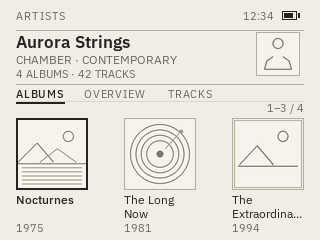
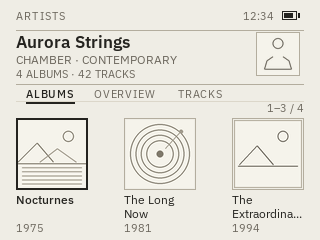
UI: make the artist tab row the focus stop the paper describes
`docs/ui.md` 6.5 says the wheel enters the tab row from the first body item and
that LEFT/RIGHT move the body selection. The firmware did the opposite: LEFT and
RIGHT switched tabs from anywhere and the wheel never reached the row, so the
shipped page and the specification disagreed and the body selection could only
be moved with the wheel.

Implement the documented grammar:

- A wheel step up enters the tab row when nothing selectable sits above the
  focused body item: always on OVERVIEW (which has no body selection), from the
  first album, and from the first playable track. Nothing that used to work is
  lost, because those steps were previously clamped no-ops.
- While the row is focused: wheel up steps back through the tabs, wheel down
  hands the wheel back to the body (the inverse of the way in), LEFT/RIGHT
  change the tab, both clamped at the ends. SELECT returns focus to the body;
  the tab is always live, so the row never holds a pending choice. MENU keeps
  its single meaning and leaves the page, as the footer says.
- Body focus: LEFT/RIGHT move the album or track selection by one, which is
  what the paper already promised.

Layout: tab labels move from x=16/84/168 to x=26/94/178 so the focused-row bar
at x=16, y=86, 2x16 has the same 8 px gutter as a focused list row and no label
shifts when the row takes or loses focus.

Evidence: `make -C tests/ui test` PASS with new pixel probes (bar present only
[…]

Changed region(s): [[0.0312, 0.35, 0.5, 0.4375], [0.5312, 0.35, 0.7188, 0.4083]]

diff --git a/firmware/ui/music.c b/firmware/ui/music.c
@@ -1804,7 +1804,8 @@ static void draw_artists_list_screen(struct helikon_screen *target,
 
 static void draw_artist_page(struct helikon_screen *target, uint32_t artist_id,
                              uint32_t tab, uint32_t album_selected,
-                             uint32_t track_selected, uint32_t flags)
+                             uint32_t track_selected, uint32_t flags,
+                             uint32_t tab_focused)
 {
     helikon_screen_fill_rect(target, 0u, 0u, target->width, target->height,
                              MUSIC_PAPER);
@@ -1866,7 +1867,10 @@ static void draw_artist_page(struct helikon_screen *target, uint32_t artist_id,
 
     draw_rule(target, 84u, MUSIC_RULE);
     static const char *const tab_labels[3] = { "ALBUMS", "OVERVIEW", "TRACKS" };
-    static const uint32_t tab_x[3] = { 16u, 84u, 168u };
+    /* The labels start at 26 so the focus marker has the same 2 px bar and
+     * 8 px gutter as a focused list row, without a layout shift when the row
+     * takes or loses focus. */
+    static const uint32_t tab_x[3] = { 26u, 94u, 178u };
     if (tab > 2u)
         tab = 0u;
     for (uint32_t index = 0u; index < 3u; ++index) {
@@ -1881,6 +1885,8 @@ static void draw_artist_page(struct helikon_screen *target, uint32_t artist_id,
                                             tab_labels[tab]);
     helikon_screen_fill_rect(target, tab_x[tab], 102u, underline, 2u,
                              MUSIC_INK);
+    if (tab_focused != 0u)
+        helikon_screen_fill_rect(target, MUSIC_X, 86u, 2u, 16u, MUSIC_INK);
     if (tab == 0u) {
         char position[32];
         if (album_count == 0u) {
@@ -3088,6 +3094,20 @@ static int run_now_playing(uint32_t track_id, uint32_t album_id)
 }
 #endif
 
+/* True when the focused tab has a selectable body item above the current one,
+ * so a wheel step up moves inside the body instead of entering the tab row. */
+static int artist_body_has_previous(const struct hdb_artist *artist,
+                                    uint32_t artist_id, uint32_t tab,
+                                    uint32_t album_selected,
+                                    int32_t track_selected)
+{
+    if (tab == 0u)
+        return artist->album_count != 0u && album_selected > 0u;
+    if (tab == 2u)
+        return artist_next_playable(artist_id, track_selected, -1) >= 0;
+    return 0; /* OVERVIEW has no body items; the wheel always reaches the row. */
+}
+
 static void run_album(uint32_t album_id);
 
 static void run_track_page(uint32_t track_id)
@@ -3181,19 +3201,20 @@ static void run_artist(uint32_t artist_id)
 {
     struct hdb_artist artist;
     if (hdb_artist(&db, artist_id, &artist) != HELIKON_OK) {
-        draw_artist_page(screen, artist_id, 0u, 0u, 0u, 0u);
+        draw_artist_page(screen, artist_id, 0u, 0u, 0u, 0u, 0u);
         (void)helikon_screen_present_all(screen);
         wait_for_back();
         return;
     }
 
     uint32_t tab = 0u;
+    uint32_t tab_focused = 0u;
     uint32_t album_selected = 0u;
     int32_t track_selected = artist_first_playable(artist_id);
     if (track_selected < 0)
         track_selected = 0;
     draw_artist_page(screen, artist_id, tab, album_selected,
-                     (uint32_t)track_selected, 0u);
+                     (uint32_t)track_selected, 0u, tab_focused);
     struct nav_state nav;
     nav_reset(&nav);
     uint64_t idle = helikon_clock_now_us(clock);
@@ -3209,23 +3230,55 @@ static void run_artist(uint32_t artist_id)
             if (hold || (pressed & HELIKON_BUTTON_MENU) != 0u)
                 return;
 
+            /* LEFT/RIGHT switch tabs while the row is focused and move the
+             * body selection otherwise. */
             if ((pressed & HELIKON_BUTTON_LEFT) != 0u) {
-                tab = tab == 0u ? 2u : tab - 1u;
+                if (tab_focused != 0u) {
+                    tab = tab == 0u ? 0u : tab - 1u;
+                } else if (tab == 0u && artist.album_count != 0u) {
+                    if (album_selected > 0u)
+                        --album_selected;
+                } else if (tab == 2u) {
+                    int32_t next =
+                        artist_next_playable(artist_id, track_selected, -1);
+                    if (next >= 0)
+                        track_selected = next;
+                }
                 nav.wheel_accumulator = 0;
                 idle = now;
                 draw_artist_page(screen, artist_id, tab, album_selected,
-                                 (uint32_t)track_selected, 0u);
+                                 (uint32_t)track_selected, 0u, tab_focused);
                 continue;
             }
             if ((pressed & HELIKON_BUTTON_RIGHT) != 0u) {
-                tab = tab == 2u ? 0u : tab + 1u;
+                if (tab_focused != 0u) {
+                    tab = tab == 2u ? 2u : tab + 1u;
+                } else if (tab == 0u && artist.album_count != 0u) {
+                    if (album_selected + 1u < artist.album_count)
+                        ++album_selected;
+                } else if (tab == 2u) {
+                    int32_t next =
+                        artist_next_playable(artist_id, track_selected, 1);
+                    if (next >= 0)
+                        track_selected = next;
+                }
                 nav.wheel_accumulator = 0;
                 idle = now;
                 draw_artist_page(screen, artist_id, tab, album_selected,
-                                 (uint32_t)track_selected, 0u);
+                                 (uint32_t)track_selected, 0u, tab_focused);
                 continue;
             }
             if ((pressed & HELIKON_BUTTON_SELECT) != 0u) {
+                if (tab_focused != 0u) {
+                    /* The tab is already live; SELECT only hands the wheel back
+                     * to the body, exactly like a list row. */
+                    tab_focused = 0u;
+                    idle = now;
+                    draw_artist_page(screen, artist_id, tab, album_selected,
+                                     (uint32_t)track_selected, 0u,
+                                     tab_focused);
+                    continue;
+                }
                 if (tab == 0u && artist.album_count != 0u) {
                     uint32_t album_id = 0u;
                     if (artist_album_at(artist_id, album_selected, &album_id) ==
@@ -3234,7 +3287,8 @@ static void run_artist(uint32_t artist_id)
                         nav_reset(&nav);
                         draw_artist_page(screen, artist_id, tab,
                                          album_selected,
-                                         (uint32_t)track_selected, 0u);
+                                         (uint32_t)track_selected, 0u,
+                                         tab_focused);
                         idle = helikon_clock_now_us(clock);
                     }
                 } else if (tab == 2u) {
@@ -3246,7 +3300,8 @@ static void run_artist(uint32_t artist_id)
                         nav_reset(&nav);
                         draw_artist_page(screen, artist_id, tab,
                                          album_selected,
-                                         (uint32_t)track_selected, 0u);
+                                         (uint32_t)track_selected, 0u,
+                                         tab_focused);
                         idle = helikon_clock_now_us(clock);
                     }
                 }
@@ -3257,7 +3312,20 @@ static void run_artist(uint32_t artist_id)
                 pressed & ~(HELIKON_BUTTON_LEFT | HELIKON_BUTTON_RIGHT), wheel,
                 now);
             if (delta != 0) {
-                if (tab == 0u && artist.album_count != 0u) {
+                if (tab_focused != 0u) {
+                    /* Up steps back through the tabs; down hands the wheel
+                     * back to the body, the inverse of the way in. */
+                    if (delta < 0)
+                        tab = tab == 0u ? 0u : tab - 1u;
+                    else
+                        tab_focused = 0u;
+                } else if (delta < 0 && !artist_body_has_previous(
+                               &artist, artist_id, tab, album_selected,
+                               track_selected)) {
+                    /* Nothing above the first body item: the wheel enters the
+                     * tab row instead of stopping dead. */
+                    tab_focused = 1u;
+                } else if (tab == 0u && artist.album_count != 0u) {
                     if (delta < 0 && album_selected > 0u)
                         --album_selected;
                     else if (delta > 0 &&
@@ -3271,7 +3339,7 @@ static void run_artist(uint32_t artist_id)
                 }
                 idle = now;
                 draw_artist_page(screen, artist_id, tab, album_selected,
-                                 (uint32_t)track_selected, 0u);
+                                 (uint32_t)track_selected, 0u, tab_focused);
             }
         }
         if (helikon_clock_expired(clock, idle, MUSIC_IDLE_MS))

diff --git a/tools/render-ui-mockup.py b/tools/render-ui-mockup.py
@@ -365,6 +365,7 @@ MUSIC_FLOW_SCREENS = (
     "artist-overview",
     "artist-overview-empty",
     "artist-tracks",
+    "artist-tab-focus",
     "album-view",
     "album-long",
     "album-empty",
@@ -1181,6 +1182,7 @@ def render_music_flow():
     for tab in ("albums", "overview", "tracks"):
         paths.extend(draw_artist_view(tab))
     paths.extend(draw_artist_view("overview", empty_overview=True))
+    paths.extend(draw_artist_view("albums", tab_focused=True))
     for mode in ("normal", "long", "empty", "corrupt"):
         paths.extend(draw_album_view(mode=mode))
     write_clip_report(MUSIC_FLOW, "Music flow", paths)
@@ -1444,7 +1446,7 @@ def draw_artists_list(long_names=False):
                      MUSIC_FLOW / f"helikon-os-{name}-320x240@2x.png")
 
 
-def draw_artist_view(tab, empty_overview=False):
+def draw_artist_view(tab, empty_overview=False, tab_focused=False):
     image = Image.new("RGB", (WIDTH, HEIGHT), HOME_PAPER)
     draw = ImageDraw.Draw(image)
     music_top_bar(draw, "ARTISTS")
@@ -1469,7 +1471,7 @@ def draw_artist_view(tab, empty_overview=False):
     require_rect(16, 84, 288, 1, "artist identity rule")
     draw.line((16, 84, 303, 84), fill=HOME_RULE)
 
-    labels = (("ALBUMS", 16), ("OVERVIEW", 84), ("TRACKS", 168))
+    labels = (("ALBUMS", 26), ("OVERVIEW", 94), ("TRACKS", 178))
     selected_index = {"albums": 0, "overview": 1, "tracks": 2}[tab]
     for index, (label, x) in enumerate(labels):
         selected = index == selected_index
@@ -1485,6 +1487,9 @@ def draw_artist_view(tab, empty_overview=False):
                               ui_font(11, 500), 0.8)
     require_rect(tab_x, 102, round(tab_width), 2, "artist tab underline")
     draw.rectangle((tab_x, 102, tab_x + round(tab_width), 103), fill=HOME_INK)
+    if tab_focused:
+        require_rect(16, 86, 2, 16, "artist tab focus bar")
+        draw.rectangle((16, 86, 17, 101), fill=HOME_INK)
 
     if tab == "albums":
         put_right_fitted(draw, "1–3 / 4" if not empty_overview else "0 / 0",
@@ -1553,12 +1558,15 @@ def draw_artist_view(tab, empty_overview=False):
                      (258, y, 46, 16), f"artist track {index + 1} duration",
                      HOME_MUTED, anchor="rs")
 
-    name = {
-        "albums": "artist-albums",
-        "overview": "artist-overview-empty" if empty_overview
-        else "artist-overview",
-        "tracks": "artist-tracks",
-    }[tab]
+    if tab_focused:
+        name = "artist-tab-focus"
+    else:
+        name = {
+            "albums": "artist-albums",
+            "overview": "artist-overview-empty" if empty_overview
+            else "artist-overview",
+            "tracks": "artist-tracks",
+        }[tab]
     return save_pair(image, MUSIC_FLOW / f"helikon-os-{name}-320x240.png",
                      MUSIC_FLOW / f"helikon-os-{name}-320x240@2x.png")
 

diff --git a/tests/ui/test_music.c b/tests/ui/test_music.c
@@ -265,24 +265,38 @@ int main(int argc, char **argv)
     if (check(any_not_paper(240u, 228u, 64u, 12u), "artists empty range"))
         return 1;
 
-    draw_artist_page(&target, 0u, 0u, 0u, 0u, 0u);
+    draw_artist_page(&target, 0u, 0u, 0u, 0u, 0u, 0u);
     snprintf(path, sizeof(path), "%s-artist-albums.ppm", prefix);
     (void)write_ppm(path);
-    if (check(pixel(16u, 102u) == MUSIC_INK, "artist albums underline"))
+    if (check(pixel(26u, 102u) == MUSIC_INK, "artist albums underline"))
         return 1;
-    if (check(pixel(84u, 102u) != MUSIC_INK,
+    if (check(pixel(94u, 102u) != MUSIC_INK,
               "artist overview underline is not active"))
         return 1;
     if (check(pixel(16u, 118u) == MUSIC_INK, "artist album cell frame"))
         return 1;
+    if (check(pixel(16u, 92u) == MUSIC_PAPER,
+              "artist tab row has no focus bar at rest"))
+        return 1;
 
-    draw_artist_page(&target, 0u, 0u, 0u, 0u, MUSIC_PREVIEW_EMPTY);
+    draw_artist_page(&target, 0u, 1u, 0u, 0u, 0u, 1u);
+    snprintf(path, sizeof(path), "%s-artist-tab-focus.ppm", prefix);
+    (void)write_ppm(path);
+    if (check(pixel(16u, 92u) == MUSIC_INK, "artist focused tab row bar"))
+        return 1;
+    if (check(pixel(18u, 92u) == MUSIC_PAPER, "artist tab focus bar is 2 px"))
+        return 1;
+    if (check(pixel(94u, 102u) == MUSIC_INK,
+              "artist focused tab keeps its underline"))
+        return 1;
+
+    draw_artist_page(&target, 0u, 0u, 0u, 0u, MUSIC_PREVIEW_EMPTY, 0u);
     snprintf(path, sizeof(path), "%s-artist-albums-empty.ppm", prefix);
     (void)write_ppm(path);
     if (check(any_not_paper(16u, 120u, 288u, 16u), "artist empty albums"))
         return 1;
 
-    draw_artist_page(&target, 0u, 1u, 0u, 0u, 0u);
+    draw_artist_page(&target, 0u, 1u, 0u, 0u, 0u, 0u);
     snprintf(path, sizeof(path), "%s-artist-overview.ppm", prefix);
     (void)write_ppm(path);
     if (check(any_ink(16u, 106u, 288u, 64u), "artist biography"))
@@ -291,7 +305,7 @@ int main(int argc, char **argv)
               "artist overview has no dead play plate"))
         return 1;
 
-    draw_artist_page(&target, 2u, 1u, 0u, 0u, MUSIC_PREVIEW_EMPTY);
+    draw_artist_page(&target, 2u, 1u, 0u, 0u, MUSIC_PREVIEW_EMPTY, 0u);
     snprintf(path, sizeof(path), "%s-artist-overview-empty.ppm", prefix);
     (void)write_ppm(path);
     if (check(any_not_paper(16u, 106u, 288u, 16u), "artist empty biography"))
@@ -300,7 +314,7 @@ int main(int argc, char **argv)
         return 1;
 
     draw_artist_page(&target, 0u, 2u, 0u, 0u,
-                     MUSIC_PREVIEW_ALL_PLAYABLE);
+                     MUSIC_PREVIEW_ALL_PLAYABLE, 0u);
     snprintf(path, sizeof(path), "%s-artist-tracks.ppm", prefix);
     (void)write_ppm(path);
     if (check(pixel(16u, 118u) == MUSIC_INK, "artist track focus bar"))

diff --git a/docs/ui.md b/docs/ui.md
@@ -622,7 +622,7 @@ row area and `0 / 0` in the footer; no fabricated rows.
 | Genre | 16, 48, 228, 18 | 12 px muted; one line, ellipsis |
 | Counts | 16, 64, 228, 16 | 11 px muted `N ALBUMS · M TRACKS` |
 | Identity rule | 16, 84, 288, 1 | Rule |
-| Tabs | 16, 86, 288, 14 | `ALBUMS`, `OVERVIEW`, `TRACKS` at x=16, 84, 168 |
+| Tabs | 16, 86, 288, 16 | focus bar at x=16; `ALBUMS`, `OVERVIEW`, `TRACKS` at x=26, 94, 178 |
 | Tab rule | 16, 101, 288, 1 | Faint; selected 2 px ink underline at y=102 |
 | Body | 16, 108, 288, 128 | tab content |
 
@@ -632,11 +632,22 @@ Regular muted. The tab row carries no count: the counts belong to the identity
 block above it and are never repeated in the tab band. The body never starts
 with biography.
 
-The tab row is a focus stop. The wheel moves into it upward from the first
-body item, LEFT/RIGHT or the wheel change the tab while it is focused, and
-SELECT switches to the focused tab and returns focus to the body. A focused
+The tab row is a focus stop. A wheel step up enters it when there is nothing
+above the first body item; while it is focused, a wheel step up steps back
+through the tabs (`ALBUMS` is the edge and does not wrap) and a wheel step
+down hands the wheel back to the body, the inverse of the way in. LEFT/RIGHT
+change the tab while the row is focused and move the body selection
+otherwise, clamped at both ends. SELECT returns focus to the body on the
+current tab, and the tab is always live, so the row never holds a pending
+choice. MENU still leaves the page, because the footer says so. A focused
 tab row draws the same 2 px ink bar as a focused list row, at x=16, y=86,
-16 px tall, in addition to the current-tab underline.
+16 px tall, in addition to the current-tab underline. The labels start at
+x=26 so the bar keeps the 8 px gutter it has in a list row and nothing shifts
+when the row takes or loses focus. `OVERVIEW` has no body selection, so its
+wheel always reaches the row; the other tabs reach it only from their first
+item.
+
+![Artist view — tab row focused](../assets/ui/music-flow/helikon-os-artist-tab-focus-320x240@2x.png)
 
 **ALBUMS (default).** Position `1–3 / N` at 304, 112. Three 72×72 cells at
 x=16, 124, 232, y=118. Art is 68×68 inside a 1 px rule; selected has a 2 px ink

diff --git a/assets/ui/README.md b/assets/ui/README.md
@@ -42,6 +42,7 @@ illustrative.
 | Artist — Overview | `music-flow/helikon-os-artist-overview-320x240.png` | `music-flow/helikon-os-artist-overview-320x240@2x.png` |
 | Artist — Overview empty | `music-flow/helikon-os-artist-overview-empty-320x240.png` | `music-flow/helikon-os-artist-overview-empty-320x240@2x.png` |
 | Artist — Tracks | `music-flow/helikon-os-artist-tracks-320x240.png` | `music-flow/helikon-os-artist-tracks-320x240@2x.png` |
+| Artist — tab row focused | `music-flow/helikon-os-artist-tab-focus-320x240.png` | `music-flow/helikon-os-artist-tab-focus-320x240@2x.png` |
 | Album — normal | `music-flow/helikon-os-album-view-320x240.png` | `music-flow/helikon-os-album-view-320x240@2x.png` |
 | Album — long title / missing art | `music-flow/helikon-os-album-long-320x240.png` | `music-flow/helikon-os-album-long-320x240@2x.png` |
 | Album — empty | `music-flow/helikon-os-album-empty-320x240.png` | `music-flow/helikon-os-album-empty-320x240@2x.png` |

diff --git a/assets/ui/music-flow/README.md b/assets/ui/music-flow/README.md
@@ -38,6 +38,7 @@ All are 320×240 RGB; `@2x` is a nearest-neighbour viewing preview.
 | Artist — Overview | `helikon-os-artist-overview-320x240.png` | `helikon-os-artist-overview-320x240@2x.png` |
 | Artist — Overview empty | `helikon-os-artist-overview-empty-320x240.png` | `helikon-os-artist-overview-empty-320x240@2x.png` |
 | Artist — Tracks | `helikon-os-artist-tracks-320x240.png` | `helikon-os-artist-tracks-320x240@2x.png` |
+| Artist — tab row focused | `helikon-os-artist-tab-focus-320x240.png` | `helikon-os-artist-tab-focus-320x240@2x.png` |
 | Album — normal | `helikon-os-album-view-320x240.png` | `helikon-os-album-view-320x240@2x.png` |
 | Album — long/missing art | `helikon-os-album-long-320x240.png` | `helikon-os-album-long-320x240@2x.png` |
 | Album — empty | `helikon-os-album-empty-320x240.png` | `helikon-os-album-empty-320x240@2x.png` |
